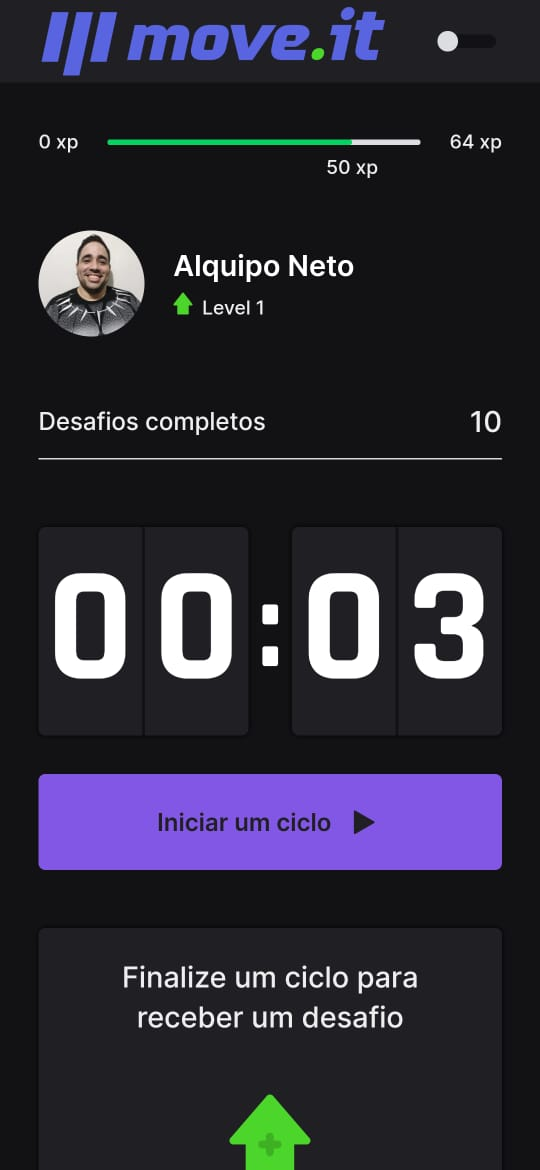
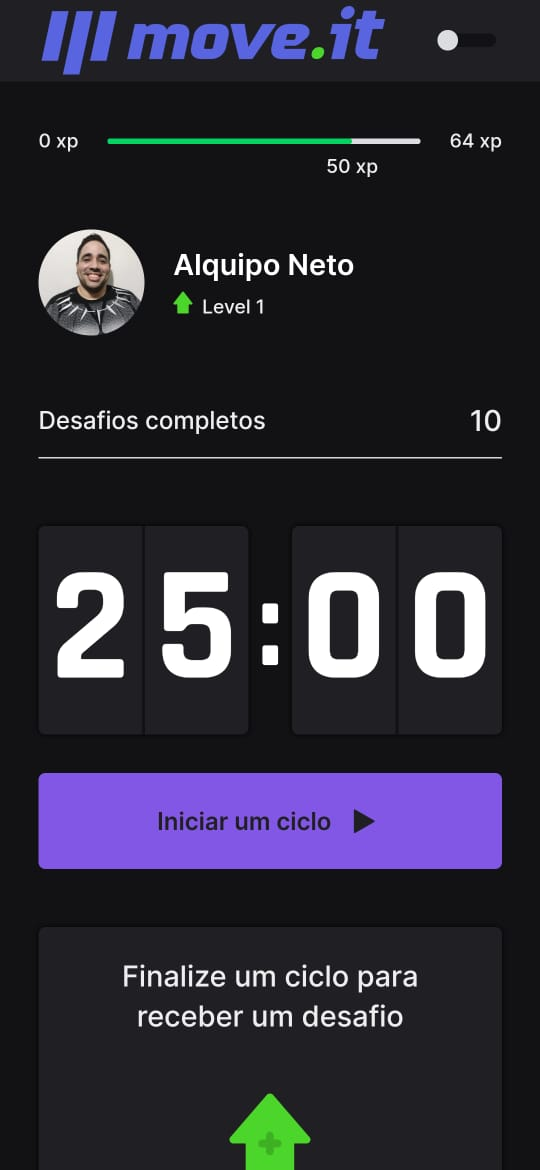
fix: readme

diff --git a/src/contexts/ChallengesContext.tsx b/src/contexts/ChallengesContext.tsx
@@ -27,7 +27,7 @@ export const ChallengesContext = createContext({} as ChallengesContextData)
 export function ChallengesProvider({ children }: ChallengesProviderProps) {
   const [level, setLevel] = useState(1)
   // eslint-disable-next-line @typescript-eslint/no-unused-vars
-  const [currentExperience, setCurrentExperience] = useState(50)
+  const [currentExperience, setCurrentExperience] = useState(60)
   // eslint-disable-next-line @typescript-eslint/no-unused-vars
   const [challengesCompleted, setChallengesCompleted] = useState(10)
 

diff --git a/src/components/Countdown/index.tsx b/src/components/Countdown/index.tsx
@@ -12,7 +12,7 @@ let countdownTimeout: NodeJS.Timeout
 const Countdown = () => {
   const { startNewChallenge } = useContext(ChallengesContext)
 
-  const [time, setTime] = useState(25 * 60)
+  const [time, setTime] = useState(0.05 * 60)
   const [isActive, setIsActive] = useState(false)
   const [hasFinished, setHasFinished] = useState(false)
 
@@ -32,7 +32,7 @@ const Countdown = () => {
     // if (yes === true) {
     clearTimeout(countdownTimeout)
     setIsActive(false)
-    setTime(25 * 60)
+    setTime(0.05 * 60)
     // }
   }
 

diff --git a/README.md b/README.md
@@ -57,21 +57,21 @@ Design feito por [Tiago Luchtenberg](https://www.instagram.com/tiagoluchtenberg/
 ### Mobile
 
 <h4 align="center">
-  <img alt="ExampleMobile" title="ExampleMobile" src=".github/app-full.gif" width="194px" />
-  <img alt="ExampleMobile" title="ExampleMobile" src=".github/app-home-full.jpg" width="200px" />
-  <img alt="ExampleMobile" title="ExampleMobile" src=".github/app-point.jpg" width="200px" />
-  <img alt="ExampleMobile" title="ExampleMobile" src=".github/app-detail.jpg" width="200px" />
+  <img alt="ExampleMobile" title="ExampleMobile" src=".github/readme/mobile.gif" width="200px" />
+  <img alt="ExampleMobile" title="ExampleMobile" src=".github/readme/mobile-dark.jpeg" width="200px" />
+  <img alt="ExampleMobile" title="ExampleMobile" src=".github/readme/mobile-light.jpeg" width="200px" />
+  <!-- <img alt="ExampleMobile" title="ExampleMobile" src=".github/app-detail.jpg" width="200px" /> -->
 </h4>
 
 ### Web
 
-<h4 align="center">
+<!-- <h4 align="center">
   <img alt="ExampleWeb" title="ExampleWeb" src=".github/web-point.gif" width="500px" />
-</h4>
+</h4> -->
 <h4 align="center">
-  <img alt="ExampleWeb" title="ExampleWeb" src=".github/readme/desktop-dark.png" width="450px" />
+  <img alt="ExampleWeb" title="ExampleWeb" src=".github/readme/desktop-dark.png" width="400px" />
 
-  <img alt="ExampleWeb" title="ExampleWeb" src=".github/readme/desktop-light.png" width="450px" />
+  <img alt="ExampleWeb" title="ExampleWeb" src=".github/readme/desktop-light.png" width="400px" />
 </h4>
 
 ## :tada: Melhorias
